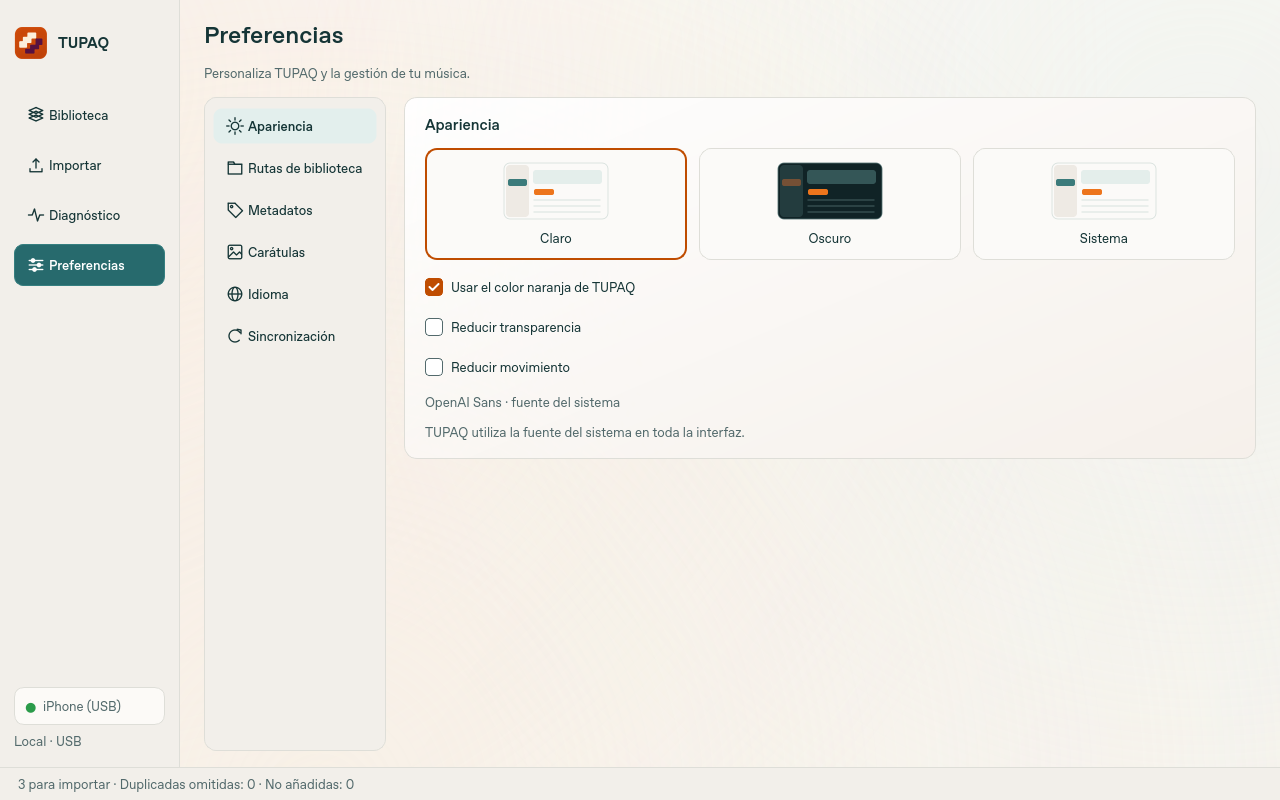
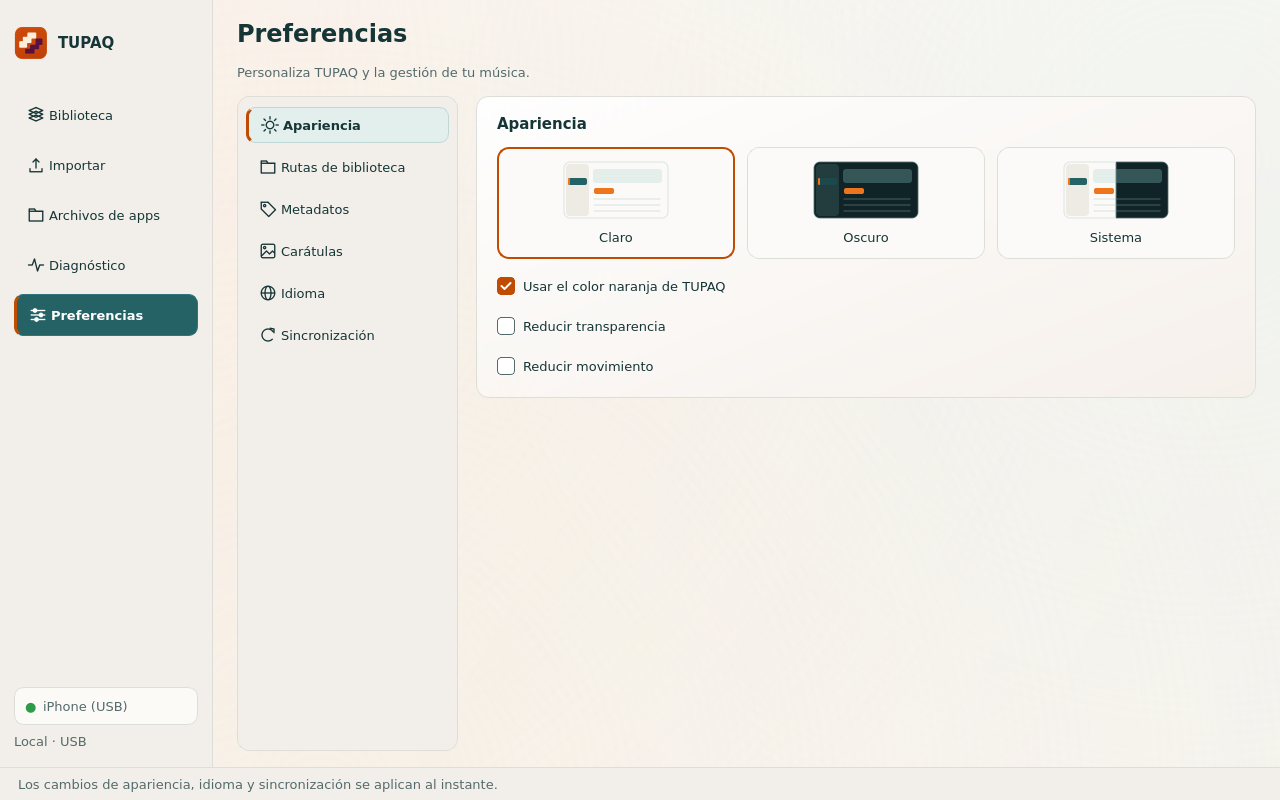
Update README and design screenshots for v0.3.0-preview.36

diff --git a/README.md b/README.md
@@ -2,132 +2,200 @@
 
 <img src="importios/assets/tupaq.png" alt="TUPAQ · Encuentro" width="88">
 
-Gestiona por USB la música del iPhone desde Windows o macOS: importa canciones
-del ordenador, exporta originales y elimina canciones seleccionadas de Música.
-Aplicación nativa, con ventana propia, sin navegador ni necesidad de instalar Python.
+Gestiona por USB la música y los archivos compartidos del iPhone desde Windows o
+macOS: importa canciones del ordenador, exporta originales (planos u organizados
+por artista y álbum), elimina canciones de Música, explora la carpeta `/Documents`
+de apps compatibles y consulta diagnósticos reales del dispositivo (incluida la
+salud de la batería). Aplicación de escritorio nativa, con ventana propia, sin
+navegador ni necesidad de instalar Python.
 
-La **0.3.0-preview.30** implementa el envío USB de letras de texto incrustadas en
-canciones nuevas, con comprobación del texto y checksum registrados en el catálogo.
-La ruta procede del análisis estático de AMPDevicesAgent; el usuario ha confirmado
-la visualización de la letra de texto en Música de su iPhone con preview.30.
-**El karaoke no funciona en los ensayos actuales**: tanto LRC como la variante
-TTML Line se muestran como letra estática; no avanzan ni permiten saltar al tocar
-una línea. Las herramientas TTML son experimentos de investigación, no una solución.
-[Implementación, pruebas y límites](docs/LETRAS-INVESTIGACION.md).
+La versión actual (**0.3.0-preview.36**) incorpora las cinco vistas con coherencia
+visual en tema claro y oscuro, aviso opcional de actualizaciones desde GitHub
+Releases, mejoras en **Archivos de apps** (buscador, renombrar con `F2` y
+política de conflictos), telemetría real de **Batería** en Diagnóstico y
+herramientas avanzadas de música: conversión opcional de FLAC/OGG/Opus/WMA con
+`ffmpeg`, exportación organizada e incremental sin límite de 1.000 canciones,
+detector de duplicados, editor no destructivo de metadatos y portada antes de
+importar, lectura y exportación `.m3u8` de playlists, vista por **Álbumes /
+Artistas** y vista previa de audio.
 
-Desde la 0.3.0-preview.25, TUPAQ adopta las referencias claras y oscuras: navegación lateral,
-superficies marfil o verde oscuro, selección verde azulado y acentos naranjas.
-**Windows y Mac usan siempre la fuente de su sistema**; no hay selector ni carga
-de fuentes. Los controles y columnas reservan el ancho real del texto, sin comprimirlo.
+**Windows y macOS usan siempre la fuente nativa de su sistema**; no hay selector
+ni carga manual de fuentes. Los controles y columnas reservan el ancho real del
+texto en español e inglés, sin recortes.
 
 ![Biblioteca clara de TUPAQ, datos sintéticos](docs/diseno-25/biblioteca-claro.png)
 
 ![Biblioteca oscura de TUPAQ, datos sintéticos](docs/diseno-25/biblioteca-oscuro.png)
 
-[Ver las cuatro pantallas en ambos temas](docs/DISENO-25.md).
+[Ver las cinco pantallas en ambos temas](docs/DISENO-25.md).
 Las capturas del repositorio usan datos sintéticos y la fuente nativa del entorno
 que las renderiza. GitHub Actions guarda también capturas por plataforma.
 
 ## Descargar y abrir
 
-[Versiones descargables](https://github.com/SRJW/TUPAQ/releases) ·
+[Última versión (v0.3.0-preview.36)](https://github.com/SRJW/TUPAQ/releases/tag/v0.3.0-preview.36) ·
+[Todas las versiones](https://github.com/SRJW/TUPAQ/releases) ·
 [Cómo descargar](DESCARGAR.md)
 
-- **Windows x64:** abre `TUPAQ.exe`.
-- **Mac Apple Silicon:** abre `TUPAQ-macOS-arm64.dmg` y copia TUPAQ a Aplicaciones.
-- **Mac Intel:** utiliza `TUPAQ-macOS-x86_64.dmg`.
+- **Windows 11 (x64):** abre `TUPAQ.exe`.
+- **macOS Apple Silicon (M1/M2/M3/M4):** abre `TUPAQ-macOS-arm64.dmg` y copia TUPAQ a Aplicaciones.
+- **macOS Intel (x86_64):** utiliza `TUPAQ-macOS-x86_64.dmg`.
 
-Cada descarga aparece cuando su plataforma termina de compilarse y verificarse.
-Windows necesita el servicio/controlador USB de Apple que permite acceder al iPhone;
-no es necesario abrir iTunes ni 3uTools. Los paquetes todavía no llevan firma de
-Windows ni notarización de Apple.
+Cada descarga se publica cuando su plataforma termina de compilarse y pasa sus
+pruebas en GitHub Actions. Windows necesita el servicio/controlador USB de Apple
+para detectar el iPhone; no es necesario abrir iTunes ni 3uTools. Los paquetes
+todavía no llevan firma de Windows ni notarización de Apple.
 
-## Las cuatro vistas
+Desde **Preferencias → Sincronización**, TUPAQ puede comprobar si existe una
+versión más reciente en GitHub Releases y mostrar un aviso con enlace a la página
+oficial de descarga; nunca descarga ni ejecuta binarios automáticamente.
 
-**Biblioteca:** lectura automática al conectar el iPhone, miniaturas, selección con
-casillas, búsqueda por título/artista/álbum/formato y filtros por formato, portada
-o letra. Las cabeceras ordenan por canción, artista, álbum, formato, duración y
-tamaño. Las marcas y la posición se conservan al navegar y actualizar. Exportar
-usa las casillas; Eliminar pide confirmación y comprueba el resultado.
+## Las cinco vistas
 
-**Importar:** elegir archivos o carpetas completas, arrastrar y soltar, preparar la
-cola, ver el estado por canción y el progreso real. Importa MP3, WAV, M4A con AAC
-/ALAC y AIFF. FLAC no se incluye. La cola permite quitar, vaciar y exportar CSV.
-Hay historial privado de operaciones y pausa/reanudación entre lotes o archivos.
-Cancelar espera a terminar el lote nativo que ya empezó a modificar Música.
+### Biblioteca
+- Lectura automática por USB al conectar el iPhone, miniaturas de carátula,
+  insignias de formato y selección persistente con casillas.
+- Conmutador **Canciones / Álbumes / Artistas** para explorar como tabla o en
+  cuadrícula de discos y artistas (permite marcar álbumes o artistas completos de
+  un clic y hacer doble clic para filtrar sus canciones).
+- Búsqueda por título, artista, álbum o formato y filtros por **Formato**
+  (`M4A`, `MP3`, `AAC`, `ALAC`, `WAV`, `AIFF`), **Contenido** (con carátula, con
+  letra o **Posibles duplicados**) y **Playlists** leídas de `MediaLibrary.sqlitedb`.
+- El filtro de formato verifica extensión y cabecera real del audio también
+  durante la exportación para que no se cuele ningún formato distinto.
+- Selección rápida contextual (**Seleccionar todo**, **Seleccionar todos los MP3**,
+  **Seleccionar resultados**), ordenación por columnas y eliminación con confirmación.
+- Panel **Detalles** con carátula original al 100%, letra incluida, propiedades
+  técnicas del audio y botón **Escuchar vista previa** para reproducir la canción
+  (tanto local en la cola como desde el iPhone por USB).
 
-**Diagnóstico:** nombre, modelo y versión de iOS cuando el iPhone los comunica;
-conexión USB, catálogo y permisos de lectura comprobados; capacidad y espacio libre
-del volumen de datos por AFC. Comprobar selección/todo lee los audios completos
-sin modificar el dispositivo. Compara SHA-256 cuando existe un recibo anterior de
-TUPAQ; sin recibo no afirma haber autenticado el archivo. Los datos desconocidos
-quedan pendientes, sin inventar velocidad USB ni estados de salud.
+### Importar
+- Elegir archivos o carpetas completas, o arrastrar y soltar directamente sobre la
+  ventana, con progreso real y estado por canción.
+- **Formatos nativos:** `MP3`, `WAV`, `M4A (AAC / ALAC)` y `AIFF`.
+- **Conversión automática opcional (FLAC y otros):** activable en Preferencias
+  usando `ffmpeg` para convertir `.flac`, `.ogg`, `.oga`, `.opus`, `.wma`, `.mka`
+  y `.webm` al vuelo a **M4A · ALAC** (sin pérdida) o **M4A · AAC (256 kbps)** en
+  una copia temporal, conservando metadatos, portada y letra sin modificar los
+  archivos originales.
+- **Detector de duplicados antes de importar:** señala con estado `Ya en el iPhone`
+  las canciones de la cola que ya existen en la biblioteca del dispositivo y ofrece
+  el botón **Quitar repetidas**.
+- **Editor de metadatos y portada antes de importar:** botón **Editar** para
+  ajustar título, artista, álbum, artista del álbum, género, año, número de pista/disco
+  o portada personalizada únicamente para el envío al iPhone, dejando intactos los
+  archivos originales del ordenador.
+- Exportación de la cola a CSV, historial privado agregado de operaciones, pausa y
+  reanudación entre lotes o archivos, y cancelación segura (espera a terminar un
+  lote ATC que ya empezó a escribir).
 
-**Preferencias:** apariencia Claro/Oscuro/Sistema, acento naranja opcional, reducir
-transparencia/movimiento, carpeta inicial para elegir/exportar música, política de
-títulos, envío de carátulas, carátulas en copias exportadas, idioma Español/English
-y sincronización. La fuente del sistema se aplica a toda la interfaz.
+### Archivos de apps
+- Explora y gestiona la carpeta `/Documents` de las aplicaciones instaladas en el
+  iPhone con intercambio de archivos habilitado en iOS (`InstallationProxy` +
+  `HouseArrestService`), para cualquier tipo de archivo.
+- Barra de migas de pan clicables (`Documentos › …`), navegación por subcarpetas,
+  arrastrar y soltar archivos o carpetas, crear nuevas carpetas, exportar y
+  eliminar con confirmación.
+- **Buscador** en vivo dentro de la carpeta actual, botón y atajo **`F2` para
+  renombrar** archivos o carpetas, y selector de política de conflictos
+  (**Si existe: Omitir / Renombrar / Reemplazar**) para subidas y exportaciones,
+  con verificación de integridad SHA-256.
 
-La **importación automática es opcional y está desactivada inicialmente**. Solo
-se inicia después de preparar archivos con el mismo iPhone conectado y la biblioteca
-leída; el dispositivo se vuelve a comprobar antes de escribir. La actualización
-opcional detecta cambios del catálogo cada 30 segundos mediante dos consultas de
-atributos; relee la biblioteca solo cuando cambia y conserva la vista anterior.
-Se suspende durante preparación, transferencias y lecturas que compiten por USB.
+### Diagnóstico
+- Muestra nombre, modelo y versión de iOS comunicados por el dispositivo, volumen
+  de almacenamiento de datos por AFC y estado de las comprobaciones de conexión,
+  base de datos, permisos de catálogo e integridad con recibos propios.
+- **Tarjeta de Batería:** consulta de solo lectura vía `DiagnosticsService`
+  (`IOPMPowerSource`) con salud real en %, ciclos de carga, capacidad máxima real
+  frente a capacidad de diseño (mAh), carga actual, temperatura (°C) y voltaje (V).
+  Si el dispositivo no entrega algún dato, queda como pendiente sin inventar cifras.
+- **Comprobar lectura de audios / Comprobar selección:** lee los audios completos
+  sin modificar el iPhone y contrasta SHA-256 contra recibos previos de TUPAQ.
+- Opciones avanzadas de recuperación ocultas por defecto (revisar operación
+  pendiente, completar importación pendiente, actualizar portadas y fecha, abrir
+  respaldos del catálogo).
 
-## Música y comprobaciones
+### Preferencias
+- **Apariencia:** Claro / Oscuro / Sistema (con miniatura partida), acento naranja
+  opcional de TUPAQ, reducir transparencia y reducir movimiento.
+- **Rutas de biblioteca y exportación:** carpeta inicial, organización al exportar
+  (**Todo en la misma carpeta** u **Organizar por Artista / Álbum** como
+  `Artista/Álbum/01 - Canción.ext`) y **modo respaldo incremental** (omite lo ya
+  exportado sin crear duplicados `(2)`). Al exportar una playlist filtrada guarda
+  también su archivo `.m3u8`.
+- **Metadatos:** envío de letras incrustadas, política de título (conservar
+  etiquetas o usar nombre de archivo), activación de conversión automática de FLAC
+  y otros formatos, selector de códec (`ALAC` / `AAC 256 kbps`) y ruta opcional de
+  `ffmpeg` (con detección automática).
+- **Carátulas:** envío de carátulas al catálogo e incrustación opcional en copias
+  exportadas sin modificar el audio del iPhone.
+- **Idioma:** cambio inmediato entre Español e English conservando la vista, la
+  cola y la selección.
+- **Sincronización y actualizaciones:** detección automática del iPhone,
+  importación automática opcional (desactivada inicialmente y sujeta a coincidencia
+  del mismo dispositivo), actualización periódica al detectar cambios en el
+  catálogo cada 30 segundos y comprobación de actualizaciones en GitHub Releases.
 
-Los originales del ordenador se conservan. La numeración opcional incoherente
-(`0/12`, `9/3`) no bloquea la importación: se conserva la posición válida y se
-omite el total incoherente en los metadatos enviados. Se verifican los audios,
-metadatos, portada y resultado del catálogo según las operaciones implementadas.
+## Música, letras y comprobaciones
 
-Hasta **50.000 canciones por selección**, divididas en lotes nativos de hasta
-49 canciones/2 GiB para importar o 100 para eliminar. Máximo 256 MiB por archivo
-importado y 100.000 registros en el catálogo admitido. Exportar conserva su límite
-independiente de 1.000 archivos. Un fallo detiene los siguientes lotes.
+Los originales del ordenador nunca se modifican (ni al importar, ni al editar
+metadatos/portada en la cola, ni al convertir FLAC a una copia temporal). La
+numeración opcional incoherente (`0/12`, `9/3`) no bloquea la importación: se
+conserva la posición válida y se omite el total incoherente.
 
-La exportación normalmente conserva los bytes originales. La opción de incrustar
-carátulas completa solo las copias exportadas que no tengan portada, después de
-verificar el audio original por USB. No sobrescribe carátulas existentes ni archivos
-previos. Solo se importan y exportan MP3, WAV, M4A (AAC/ALAC) y AIFF.
-
-Se conserva el catálogo antes de cada cambio. **Esa copia no incluye todos los
-audios** y no es una restauración automática. Los recibos permiten comprobar
-operaciones interrumpidas sin reenviar música a ciegas. El historial es agregado
-(fecha, operación, estado y recuentos), separado de los respaldos de recuperación.
-
-Las letras incrustadas se detectan, se conservan y se pueden consultar. **Su aparición
-en Música del iPhone todavía no está garantizada**: falta validar el contrato nativo
-separado. Se recuperó el cálculo de checksum del host y se preparó su contraste
-de solo lectura; la entrega USB todavía está pendiente.
-[Avances de investigación](docs/LETRAS-INVESTIGACION.md) · [Letras](docs/LETRAS.md) · [Transferencias y límites](docs/TRANSFERENCIAS.md).
+- **Límites operativos:** hasta **50.000 canciones por selección** para importar,
+  exportar o eliminar; la importación se divide en lotes nativos de hasta 49
+  canciones / 2 GiB y la eliminación en lotes de hasta 100. Máximo 256 MiB por
+  archivo nativo (512 MiB de origen para conversión con `ffmpeg`) y 100.000
+  registros en el catálogo admitido. Un fallo detiene los lotes restantes.
+- **Exportación fiel:** conserva los bytes originales y verifica el hash tras la
+  lectura USB. Con *Incrustar carátulas* completa solo copias locales que no
+  tengan portada; con *Respaldo incremental* omite archivos ya presentes en el
+  destino; con una playlist activa conserva su orden y escribe `<Playlist>.m3u8`.
+- **Respaldo y recibos:** se guarda una copia del catálogo antes de cada cambio.
+  **Esa copia no incluye todos los audios** ni es una restauración automática;
+  sirve junto a los recibos para verificar o completar operaciones interrumpidas
+  sin reenviar canciones a ciegas.
+- **Letras incrustadas:** desde `0.3.0-preview.30` se envían letras de texto plano
+  incrustadas en canciones nuevas con verificación de texto y checksum en el
+  catálogo (confirmado por el usuario en Música del iPhone). **El karaoke
+  sincronizado no funciona en los ensayos actuales**: tanto LRC como TTML Line se
+  muestran como letra estática en Música.
+  [Implementación, pruebas y límites de letras](docs/LETRAS-INVESTIGACION.md) ·
+  [Letras](docs/LETRAS.md) · [Transferencias y límites](docs/TRANSFERENCIAS.md).
 
 ## Validación y desarrollo
 
-**215 pruebas automáticas** en la revisión 25, incluidas preferencias reales,
-exportación con carátulas, diagnóstico de corrupción, cambio de teléfono y pausa
-entre transacciones. Se prepararon 10.000 archivos en la interfaz nueva. Las pruebas
-previas importaron y eliminaron 10.000 canciones en un iPhone simulado, conservando
-el audio ajeno a la selección. [Informe reproducible](docs/ESTRES.md).
+La revisión **0.3.0-preview.36** cuenta con **294 pruebas automáticas** que
+cubren lectura de catálogo y playlists, conversión real de FLAC → ALAC/AAC con
+`ffmpeg`, exportación organizada e incremental con `.m3u8`, editor no destructivo
+de metadatos y carátula, detección de duplicados, telemetría de batería, aviso de
+actualizaciones, operaciones de **Archivos de apps** (renombrar, buscar y
+políticas de conflicto), traducciones ES/EN y coherencia visual en claro y oscuro.
+Las pruebas de estrés previas validaron 10.000 canciones en la cola y en un
+iPhone simulado ([informe reproducible](docs/ESTRES.md)).
 
-Los resultados simulados no sustituyen la prueba física por USB. El usuario ha
-confirmado lectura e importación con metadatos y carátula en versiones anteriores.
-GitHub prueba los ejecutables nativos de Windows y ambos Mac antes de publicarlos;
-verifica y monta los DMG. Los artefactos de compilación y capturas se conservan
-30 días en Actions. Los pushes a `main` compilan; las etiquetas `v…` publican.
+Los resultados simulados no sustituyen la prueba física por USB con un iPhone
+real. GitHub Actions ejecuta la suite, renderiza capturas y compila/verifica los
+ejecutables reales de Windows y ambos macOS (incluyendo montaje y prueba del DMG)
+antes de publicar. Los pushes a `main` compilan; las etiquetas `v…` publican en
+Releases.
 
 ```bash
 python -m venv .venv
 .venv/bin/python -m pip install -r requirements-build.txt
-QT_QPA_PLATFORM=offscreen .venv/bin/python -m unittest discover -s tests -v
+QT_QPA_PLATFORM=offscreen .venv/bin/python scripts/run_tests.py
 .venv/bin/python -m importios.native
+QT_QPA_PLATFORM=offscreen .venv/bin/python scripts/preview_desktop.py --output /tmp/tupaq-preview
 .venv/bin/python scripts/build_desktop.py
 ```
 
 En Windows utiliza `.venv\Scripts\python.exe` y omite `QT_QPA_PLATFORM=offscreen`
-para abrir la ventana. El nombre interno del módulo sigue siendo `importios`;
-el repositorio y la aplicación se llaman TUPAQ.
+para abrir la ventana. Para la conversión opcional de FLAC/OGG/Opus/WMA en tu
+equipo necesitas `ffmpeg` en el `PATH` (por ejemplo `winget install Gyan.FFmpeg`
+en Windows o `brew install ffmpeg` en macOS) o indicar su ruta en Preferencias.
+El nombre interno del paquete Python sigue siendo `importios`; el repositorio y
+la aplicación se llaman **TUPAQ**.
 
 ## Investigación y atribución
 

diff --git a/docs/DISENO-25.md b/docs/DISENO-25.md
@@ -1,4 +1,4 @@
-# Diseño claro y oscuro · 0.3.0-preview.25
+# Diseño claro y oscuro · TUPAQ (actualizado en 0.3.0-preview.36)
 
 Capturas de los widgets reales de la aplicación con datos sintéticos. No son
 maquetas generadas ni una conexión a un teléfono real. Se renderizaron en Linux;
@@ -9,23 +9,19 @@ como preferencia de la aplicación.
 | --- | --- | --- |
 | Biblioteca | ![Biblioteca clara](diseno-25/biblioteca-claro.png) | ![Biblioteca oscura](diseno-25/biblioteca-oscuro.png) |
 | Importar | ![Importar claro](diseno-25/importar-claro.png) | ![Importar oscuro](diseno-25/importar-oscuro.png) |
+| Archivos de apps | ![Archivos de apps claro](diseno-25/apps-claro.png) | ![Archivos de apps oscuro](diseno-25/apps-oscuro.png) |
 | Diagnóstico | ![Diagnóstico claro](diseno-25/diagnostico-claro.png) | ![Diagnóstico oscuro](diseno-25/diagnostico-oscuro.png) |
 | Preferencias | ![Preferencias claras](diseno-25/preferencias-claro.png) | ![Preferencias oscuras](diseno-25/preferencias-oscuro.png) |
 
-## Funciones de las referencias
+## Funciones en las cinco vistas
 
-- Archivos o carpetas, cola, miniaturas, estados por canción y progreso real.
-- Historial agregado de las últimas operaciones, sin nombres de canciones ni IDs.
-- Importar, exportar, seleccionar y eliminar; filtros de formato, portada y letra.
-- Claro/Oscuro/Sistema, acento opcional, reducir transparencia y movimiento.
-- Carpeta inicial de música, política de títulos y opciones de carátula.
-- Activación opcional de importación automática y actualización por cambios.
-- Diagnóstico con nombre/modelo/iOS conocidos, almacenamiento de datos comunicado
-  por AFC y comprobaciones de conexión, catálogo, lectura y hashes conocidos.
-- Pausa/reanudación entre lotes o archivos y cancelación segura.
+- **Biblioteca:** tabla y cuadrícula de **Álbumes / Artistas**, playlists de `MediaLibrary.sqlitedb`, búsqueda, filtros estrictos de formato, portada, letra y **Posibles duplicados**, insignias de formato, selección contextual y panel **Detalles** con vista previa de audio.
+- **Importar:** archivos o carpetas, editor no destructivo de metadatos y portada antes de importar, detector de canciones ya presentes en el iPhone (`Quitar repetidas`), conversión opcional de FLAC/OGG/Opus/WMA con `ffmpeg`, historial agregado, pausa/reanudación y cancelación segura.
+- **Archivos de apps:** exploración de `/Documents` con migas de pan clicables, subir archivos/carpetas (o arrastrar y soltar), nueva carpeta, buscador, renombrar (`F2`), exportar, eliminar y política de conflictos (`Omitir / Renombrar / Reemplazar`).
+- **Diagnóstico:** nombre/modelo/iOS, almacenamiento de datos AFC, tarjeta **Batería** (`DiagnosticsService`), comprobaciones de conexión/catálogo/permisos/hashes y herramientas avanzadas de recuperación.
+- **Preferencias:** Claro/Oscuro/Sistema (miniatura partida), acento opcional, transparencia y movimiento, carpeta inicial, organización al exportar (`Artista/Álbum`) y respaldo incremental, conversión FLAC (`ALAC` / `AAC`), carátulas, idioma ES/EN y aviso de actualizaciones desde GitHub Releases.
 
-Formatos: MP3, WAV, M4A con AAC/ALAC y AIFF. **FLAC se excluye** por indicación
-del usuario. Los chips AAC/ALAC indican códecs dentro del contenedor M4A.
+Formatos nativos para Música: `MP3`, `WAV`, `M4A (AAC/ALAC)` y `AIFF` (más conversión opcional de `FLAC`, `OGG`, `Opus`, `WMA`, `MKA` y `WebM` a `M4A` mediante `ffmpeg` sin alterar originales). En **Archivos de apps** se admite cualquier tipo de archivo dentro de `/Documents`.
 
 ## Alcance de los controles
 
